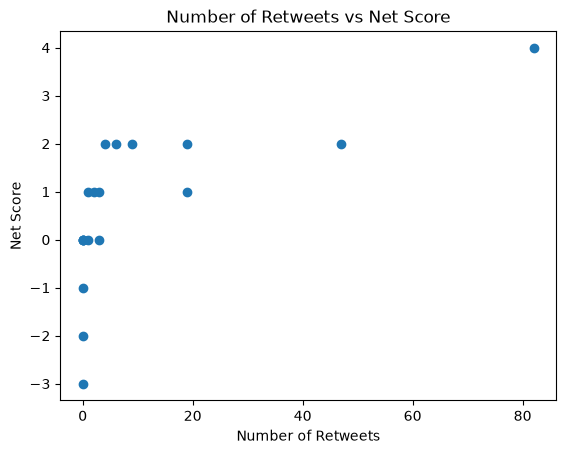
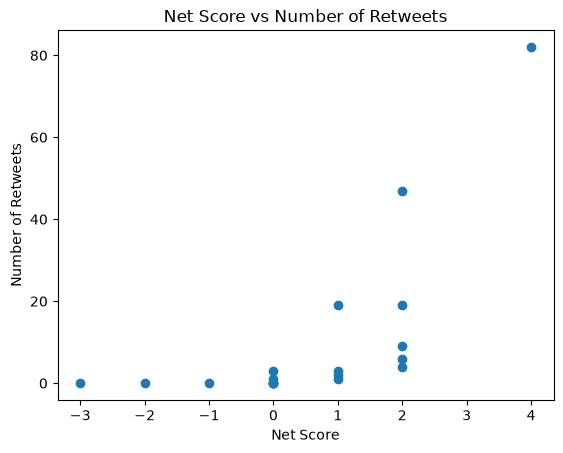
Updated Scatter Plot

diff --git a/main.py b/main.py
@@ -52,9 +52,10 @@ with open("resulting_data.csv") as file:
         net_scores.append(int(data["Net_Scores"]))
 
 
-plt.scatter(retweets, net_scores)
-plt.xlabel("Number of Retweets")
-plt.ylabel("Net Score")
-plt.title("Number of Retweets vs Net Score")
+plt.scatter(net_scores, retweets)
+
+plt.xlabel("Net Score")
+plt.ylabel("Number of Retweets")
+plt.title("Net Score vs Number of Retweets")
 plt.savefig("scatter_plot.png", bbox_inches="tight")
 plt.show()
